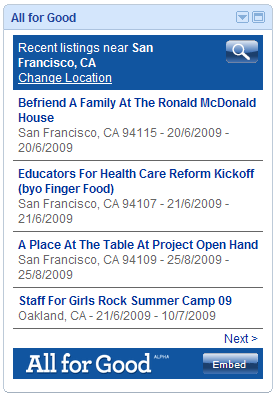
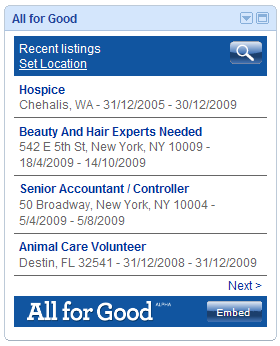
merge r853-856,858  - bugfixes to gadget  - /apps instruction pages for blogger, typepad, gmail

diff --git a/branches/release_1_5/frontend/html/apps-typepad.html b/branches/release_1_5/frontend/html/apps-typepad.html
@@ -1,0 +1,39 @@
+<h3>Adding the All for Good Gadget to your TypePad blog</h3>
+
+<p>Here's how to set up an All for Good Gadget for a basic blog template on TypePad.  You'll be setting up a gadget that will be placed in the narrow right sidebar of a basic three-column blog layout.  Start by <a href="http://www.gmodules.com/ig/creator?synd=open&url=http%3A//www.allforgood.org/gadget/gadget.xml&h=315&w=250" target="_blank">going to this page.</a></p>
+<p><img src="/zx0000/images/apps/typepad/1.png" /></p>
+
+<p>Under Display settings, the Title is text that will appear above your gadget once it's placed in your blog template. You might enter "All for Good - Pets" and then set pets as a preferred keyword in the Gadget settings. Set the width of your gadget to 160 pixels and height to 380 pixels. In this example, we left the border turned off because the blog column is already very narrow. Set Stories to read to 4. Enter your zip code.</p>
+<p><img src="/zx0000/images/apps/typepad/2.png" /></p>
+
+<p>Click the Get the Code button and a text field will appear below containing the HTML code you need. Click in the text field, select all and copy.</p>
+<p><img src="/zx0000/images/apps/typepad/3.png" /></p>
+
+<p>Click in the text field, select all and copy the HTML in the clipboard.</p>
+<p><img src="/zx0000/images/apps/typepad/4.png" /></p>
+
+<p>Log into TypePad and on the home page, select your web log, in this case one named "Mike's Blog." Next, click on the Weblogs tab and then the Design tab. Under Categories, select widgets. Then under Modules, select Embed your own HTML.</p>
+<p><img src="/zx0000/images/apps/typepad/5.png" /></p>
+
+<p>Under Details, click the Add this module button.</p>
+<p><img src="/zx0000/images/apps/typepad/6.png" /></p>
+
+<p>A pop-up window will appear. Label the Custom HTML a name that makes sense to you. The label will appear in the design panel for reference only. Then in the HTML field, paste the HTML you saved into the clipboard from the All for Good gadget page. Click save.</p>
+<p><img src="/zx0000/images/apps/typepad/7.png" /></p>
+
+<p>A module will appear at the top of the left column with the given label "All for Good Gadget."</p>
+<p><img src="/zx0000/images/apps/typepad/8.png" /></p>
+
+<p>Click and drag the module over to the top of the right column.</p>
+<p><img src="/zx0000/images/apps/typepad/9.png" /></p>
+
+<p>Click Save Changes.</p>
+<p><img src="/zx0000/images/apps/typepad/10.png" /></p>
+
+<p>You'll be switched back to the Current Design options page with a blue bar confirming that the changes to the weblog's design have been saved.</p>
+<p><img src="/zx0000/images/apps/typepad/11.png" /></p>
+
+<p>Click the blue View Weblog button at upper right.</p>
+<p><img src="/zx0000/images/apps/typepad/12.png" /></p>
+
+<p>And you should see your shiny new All for Good Gadget nested happily in the top of the right column of your blog!</p>

diff --git a/branches/release_1_5/frontend/html/apps-blogger.html b/branches/release_1_5/frontend/html/apps-blogger.html
@@ -1,0 +1,28 @@
+<h3>Adding the All for Good Gadget to your Blogger blog</h3>
+
+<p>Here's how to set up an All for Good Gadget for a basic blog template on Blogger.  Start by <a href="http://www.gmodules.com/ig/creator?synd=open&url=http%3A//www.allforgood.org/gadget/gadget.xml&h=315&w=250" target="_blank">going to this page.</a></p>
+<p><img src="/zx0000/images/apps/blogger/1.png" /></p>
+
+<p>Under Display settings, the Title is text that will appear above your gadget once it's placed in your blog template. You might enter "All for Good - Pets" and then set pets as a preferred keyword in the Gadget settings. Set the width of your gadget to 200 pixels.	 In this example, we left the border turned off because the blog column is already very narrow. Set Stories to read to 4. Enter your zip code.</p>
+<p><img src="/zx0000/images/apps/blogger/2.png" /></p>
+
+<p>Click the Get the Code button and a text field will appear below containing the HTML code you need. Click in the text field, select all and copy.</p>
+<p><img src="/zx0000/images/apps/blogger/3.png" /></p>
+
+<p>Click in the text field, select all and copy the HTML in the clipboard.</p>
+<p><img src="/zx0000/images/apps/blogger/4.png" /></p>
+
+<p>Log into Blogger and go to your blog's administration area.  Click on the <strong>Layout</strong> tab.  Click the <strong>Add a Gadget</strong> link on the right.</p>
+<p><img src="/zx0000/images/apps/blogger/5.png" /></p>
+
+<p>In the pop up window, click on <strong>HTML/JavaScript</strong></p>
+<p><img src="/zx0000/images/apps/blogger/6.png" /></p>
+
+<p>Under <strong>Title</strong>, enter a title for the Gadget that makes sense for your blog.  Paste the code you copied earlier under <strong>Content</strong>.  Click <strong>Save</strong>.</p>
+<p><img src="/zx0000/images/apps/blogger/7.png" /></p>
+
+<p>You'll now see the gadget name listed in your sidebar.</p>
+<p><img src="/zx0000/images/apps/blogger/8.png" /></p>
+
+
+<p>Click to view your blog, and you'll see the gadget!</p>

diff --git a/branches/release_1_5/frontend/html/apps-gmail.html b/branches/release_1_5/frontend/html/apps-gmail.html
@@ -1,0 +1,21 @@
+<h3>Adding the All for Good Gadget to Gmail</h3>
+
+<p>Adding the All for Good gadget to your Gmail account is easy.  First, log in to your account at <a href="http://www.gmail.com" target="_blank">Gmail.com</a></p>
+<p><img src="/zx0000/images/apps/gmail/1.png" /></p>
+
+<p>Click on <strong>Settings</strong> in the top right corner of the page.</p>
+<p><img src="/zx0000/images/apps/gmail/2.png" /></p>
+
+<p>Click on <strong>Labs</strong> in the orange bar.</p>
+<p><img src="/zx0000/images/apps/gmail/3.png" /></p>
+
+<p>Scroll all the way to the bottom of the page, and click <strong>Enable</strong> next to <strong>Add any gadget by URL</strong>.  Then click the <strong>Save</strong> button.</p>
+<p><img src="/zx0000/images/apps/gmail/4.png" /></p>
+
+<p>You'll be back in your Inbox.  Click on <strong>Settings</strong> in the top right again, and click on <strong>Gadgets</strong> in the orange bar.  Copy the text in the box below and paste it into the text box on the page.<br /><br />
+	<input type="text" value="http://www.allforgood.org/gadget/gadget.xml" size="40" /><br /><br />
+	Now click <strong>Add</strong>.</p>
+<p><img src="/zx0000/images/apps/gmail/5.png" /></p>
+
+<p>That's it!  You'll see the All for Good gadget in your sidebar.</p>
+<p><img src="/zx0000/images/apps/gmail/6.png" /></p>

diff --git a/branches/release_1_5/frontend/urls.py b/branches/release_1_5/frontend/urls.py
@@ -53,4 +53,7 @@ STATIC_CONTENT_FILES = {
   '/dmca' : 'dmca.html',
   '/docs/api.html' : 'api.html',
   '/partner_terms' : 'partner_terms.html',
+  '/apps/gmail' : 'apps-gmail.html',
+  '/apps/typepad' : 'apps-typepad.html',
+  '/apps/blogger' : 'apps-blogger.html',
 }
